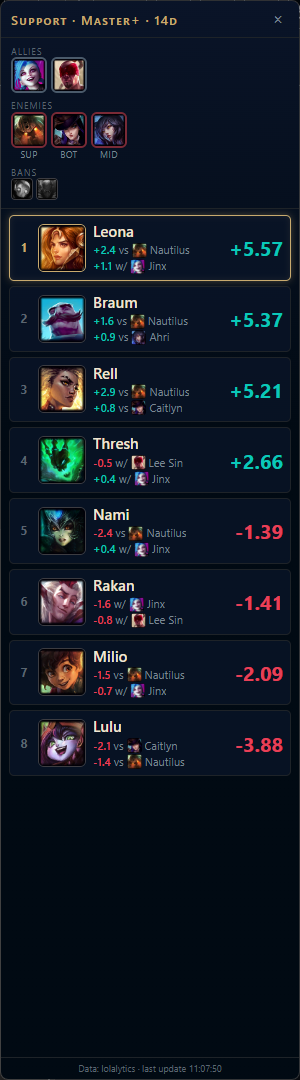
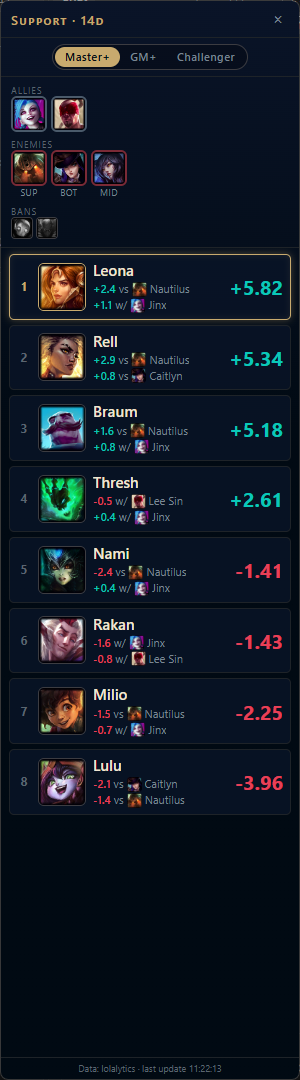
Add Master+/GM+/Challenger tier pill to the panel
Tier is switchable at runtime, remembered in settings.json, and part of
every cache key so each tier caches separately; pools are kept per
(tier, role). Lane guessing stays on Master+. Shows a note when a tier
has few matchups, and estimates champion games from pick rate so the
baseline survives tiers with no listed matchups. Empty bans row hidden.

diff --git a/panel/index.html b/panel/index.html
@@ -94,10 +94,20 @@ body.overlay .name{font-size:.8125rem}
 body.overlay .score{font-size:1.0625rem}
 body.overlay .foot{padding:.1875rem}
 body.overlay .recs{gap:.1875rem;padding:.25rem .375rem}
+.tiers{display:flex;justify-content:center;padding:.375rem .625rem;border-bottom:1px solid var(--line);flex:none}
+.pill{display:inline-flex;border:1px solid var(--line2);border-radius:999px;padding:2px;background:rgba(0,0,0,.25)}
+.pill button{background:none;border:0;border-radius:999px;color:var(--muted);font:inherit;font-size:.6875rem;font-weight:600;
+  letter-spacing:.04em;padding:.1875rem .625rem;cursor:pointer;transition:background .15s,color .15s}
+.pill button:hover{color:var(--gold2)}
+.pill button.on{background:var(--gold);color:#010a13}
+.pill button:disabled{cursor:wait}
+.note{font-size:.625rem;color:var(--muted);text-align:center;padding:.25rem .625rem 0}
+body.overlay .tiers{padding:.1875rem .5rem}
 </style>
 </head>
 <body>
 <div class="hdr"><div class="t" id="title">Pick Recommender</div><button class="x" id="hide" title="Hide">&times;</button></div>
+<div class="tiers hidden" id="tiersBox"><div><div class="pill" id="tiers"></div><div class="note hidden" id="note"></div></div></div>
 <div class="team" id="team">
   <div><div class="rlabel">Allies</div><div class="row" id="allies"></div></div>
   <div><div class="rlabel">Enemies</div><div class="row" id="enemies"></div></div>
@@ -190,13 +200,33 @@ body.overlay .recs{gap:.1875rem;padding:.25rem .375rem}
     });
   }
   function pad(n){return(n<10?"0":"")+n}
+  var pending=null;
+  function renderTiers(s){
+    var box=$("tiers");
+    $("tiersBox").classList.toggle("hidden",!(s.tiers&&s.tiers.length));
+    if(pending&&pending===s.tier_id)pending=null;
+    clear(box);
+    (s.tiers||[]).forEach(function(t){
+      var b=el("button",(pending||s.tier_id)===t.id?"on":null,t.label);
+      b.disabled=!!pending;
+      b.addEventListener("click",function(){
+        if(pending||t.id===s.tier_id)return;
+        pending=t.id;renderTiers(s);
+        try{window.pywebview.api.set_tier(t.id)}catch(e){pending=null;renderTiers(s)}
+      });
+      box.appendChild(b);
+    });
+    $("note").textContent=s.note||"";
+    $("note").classList.toggle("hidden",!s.note);
+  }
 
   window.updateState=function(s){
     s=s||{};
     var active=s.status==="active";
     var parts=[];
-    if(s.role)parts.push(cap(s.role));if(s.tier)parts.push(s.tier);if(s.days!=null&&s.days!=="")parts.push(s.days+"d");
+    if(s.role)parts.push(cap(s.role));if(s.days!=null&&s.days!=="")parts.push(s.days+"d");
     $("title").textContent=parts.length?parts.join(" · "):"Pick Recommender";
+    renderTiers(s);
     $("team").classList.toggle("hidden",!active);
     $("recs").classList.toggle("hidden",!active);
     var em=$("empty");em.classList.toggle("hidden",active);
@@ -205,7 +235,7 @@ body.overlay .recs{gap:.1875rem;padding:.25rem .375rem}
     if(active){
       chipRow($("allies"),s.allies,"ally");
       chipRow($("enemies"),s.enemies,"enemy");
-      clear($("bans"));
+      clear($("bans"));$("bansBox").classList.toggle("hidden",!(s.bans&&s.bans.length));
       (s.bans||[]).forEach(function(b){var i=icon(b.name,b.icon);i.title=b.name;$("bans").appendChild(i)});
       var keep=$("recs").scrollTop;renderRecs(s.recs);$("recs").scrollTop=keep;
     }
@@ -231,7 +261,7 @@ body.overlay .recs{gap:.1875rem;padding:.25rem .375rem}
     var C=function(n,id,k,l,d,g,w,t){return{kind:k,name:n,icon:I(id),lane:l,delta:d,games:g,weighted:w,tentative:!!t}};
     var rec=function(n,id,sc,base,cs){return{name:n,icon:I(id),score:sc,base:base,contributions:cs}};
     window.updateState({
-      status:"active",role:"support",tier:"Master+",days:14,
+      status:"active",role:"support",tier:"Master+",days:14,tier_id:q.get("tier")||"master_plus",note:q.get("tier")==="challenger"?"Few matchups at this tier: scores lean on overall win rate.":"",tiers:[{id:"master_plus",label:"Master+"},{id:"grandmaster_plus",label:"GM+"},{id:"challenger",label:"Challenger"}],
       allies:[{name:"Jinx",icon:I("Jinx"),lane:"bottom",tentative:false,is_me:false},
               {name:"Lee Sin",icon:I("LeeSin"),lane:"jungle",tentative:true,is_me:false},
               {name:"Me",icon:"",lane:"support",tentative:false,is_me:true}],

diff --git a/app.py b/app.py
@@ -30,7 +30,9 @@ from paths import DATA_DIR, RESOURCES
 from scoring import LANES
 
 TITLE = "League Pick Helper"
-TIER_NAMES = {"master_plus": "Master+", "emerald_plus": "Emerald+", "platinum_plus": "Platinum+"}
+TIERS = {"master_plus": "Master+", "grandmaster_plus": "GM+", "challenger": "Challenger"}
+SETTINGS = DATA_DIR / "settings.json"
+LOW_DATA = 0.25  # below this share of possible matchups found, warn that the tier is thin
 MOD_CONTROL, MOD_SHIFT, MOD_NOREPEAT, WM_HOTKEY = 0x2, 0x4, 0x4000, 0x0312
 CTRL_C_EVENT, CTRL_BREAK_EVENT, CTRL_CLOSE_EVENT = 0, 1, 2
 HANDLER_ROUTINE = ctypes.WINFUNCTYPE(w.BOOL, w.DWORD)
@@ -47,6 +49,9 @@ class Api:
     def hide(self) -> None:
         self._app.user_hidden = True
 
+    def set_tier(self, tier: str) -> None:
+        self._app.set_tier(tier)
+
 
 class App:
     def __init__(self, args):
@@ -56,6 +61,9 @@ class App:
         self.user_hidden = False
         self.window: webview.Window | None = None
         self.rec: Recommender | None = None
+        self.lock = threading.RLock()  # evaluation runs from the LCU thread and from pill clicks
+        self.last_draft: tuple[DraftState, set[int] | None] | None = None
+        self.last_status = ("Waiting for champ select...", "waiting")
 
     # -- page updates -----------------------------------------------------
     def js(self, code: str) -> None:
@@ -65,20 +73,59 @@ class App:
     def push(self, state: dict) -> None:
         self.js(f"window.updateState&&updateState({json.dumps(state)})")
 
-    def status(self, message: str, status: str = "waiting") -> None:
+    def status(self, message: str, status: str = "waiting", remember: bool = True) -> None:
+        if remember:
+            self.last_status = (message, status)
         self.push(self._header() | {"status": status, "message": message})
+
+    def progress(self, message: str) -> None:
+        self.status(message, remember=False)
 
     def _header(self, role: str | None = None) -> dict:
         cfg = self.rec.cfg if self.rec else load_config(self.args.config)
-        return {"role": role or "", "tier": TIER_NAMES.get(cfg.tier, cfg.tier), "days": cfg.days}
+        tier = self.rec.tier if self.rec else cfg.tier
+        return {
+            "role": role or "", "tier": TIERS.get(tier, tier), "tier_id": tier, "days": cfg.days,
+            "tiers": [{"id": k, "label": v} for k, v in TIERS.items()],
+        }
+
+    def set_tier(self, tier: str) -> None:
+        if tier not in TIERS or not self.rec:
+            return
+        with self.lock:
+            self.rec.tier = tier
+            try:
+                SETTINGS.write_text(json.dumps({"tier": tier}), encoding="utf-8")
+            except OSError:
+                log.warning("could not save settings")
+            self.render()
+
+    def render(self) -> None:
+        """Re-score the last draft (or re-show the last status) with current settings."""
+        with self.lock:
+            if not (self.active and self.last_draft):
+                self.status(*self.last_status)
+                return
+            draft, pickable = self.last_draft
+            try:
+                self.show_eval(self.rec.evaluate(draft, pickable))
+            except Exception:
+                log.exception("evaluate failed")
+                self.status("Error scoring draft (see app.log)", "error")
 
     def show_eval(self, ev: Evaluation) -> None:
         ch = self.rec.champs
         champ = lambda cid: {"name": ch.name(cid), "icon": ch.icon_url(cid)}
         d = ev.draft
+        found = sum(1 for r in ev.recs for c in r.contributions if c.label == "vs")
+        possible = len(ev.recs) * len(d.enemies)
+        note = ""
+        if possible and found / possible < LOW_DATA:
+            note = "Few matchups at this tier: scores lean on overall win rate."
         self.push(self._header(ev.role) | {
             "status": "active",
             "message": "",
+            "note": note,
             "allies": [
                 champ(s.champion_id) | {"lane": s.position or ev.lanes.get(s.champion_id, ""),
                                         "tentative": s.tentative, "is_me": s.is_me}
@@ -103,22 +150,21 @@ class App:
 
     # -- draft sources ----------------------------------------------------
     def on_session(self, session: dict | None, pickable: set[int] | None = None) -> None:
-        if not session:
-            self.active = False
-            self.status("Waiting for champ select...")
-            return
-        if not self.active:
-            self.user_hidden = False  # new draft: bring the panel back
-        self.active = True
-        draft = parse_session(session)
-        if self.rec.role_for(draft) is None:
-            self.status("No assigned role in this queue - recommendations need a position (draft or ranked).")
-            return
-        try:
-            self.show_eval(self.rec.evaluate(draft, pickable))
-        except Exception:
-            log.exception("evaluate failed")
-            self.status("Error scoring draft (see app.log)", "error")
+        with self.lock:
+            if not session:
+                self.active, self.last_draft = False, None
+                self.status("Waiting for champ select...")
+                return
+            if not self.active:
+                self.user_hidden = False  # new draft: bring the panel back
+            self.active = True
+            draft = parse_session(session)
+            if self.rec.role_for(draft) is None:
+                self.last_draft = None
+                self.status("No assigned role in this queue - recommendations need a position (draft or ranked).")
+                return
+            self.last_draft = (draft, pickable)
+            self.render()
 
     def run_live(self) -> None:
         pickable: set[int] = set()
@@ -161,7 +207,8 @@ class App:
             bans=set(ids(self.args.bans)), picked={s.champion_id for s in allies} | set(enemies),
         )
         self.active = True
-        self.show_eval(self.rec.evaluate(draft))
+        self.last_draft = (draft, None)
+        self.render()
 
     # -- window placement -------------------------------------------------
     def track(self) -> None:
@@ -206,7 +253,8 @@ class App:
         try:
             self.status("Loading champion data...")
             self.rec = Recommender(load_config(self.args.config))
-            self.rec.progress = self.status
+            self.rec.tier = self._saved_tier() or self.rec.tier
+            self.rec.progress = self.progress
             if self.args.simulate:
                 self.run_simulate()
             elif self.args.replay:
@@ -216,6 +264,14 @@ class App:
         except Exception:
             log.exception("fatal")
             self.status("Something went wrong (see app.log)", "error")
+
+    @staticmethod
+    def _saved_tier() -> str | None:
+        try:
+            tier = json.loads(SETTINGS.read_text(encoding="utf-8")).get("tier")
+        except (OSError, ValueError):
+            return None
+        return tier if tier in TIERS else None
 
     def run(self) -> None:
         tracker.make_dpi_aware()

diff --git a/lolalytics.py b/lolalytics.py
@@ -21,6 +21,15 @@ BASE = "https://a1.lolalytics.com/mega/"
 CACHE_DIR = paths.CACHE_DIR / "lolalytics"
 HEADERS = {"User-Agent": "Mozilla/5.0 (league-analysis pick helper)"}
 TTL = 24 * 3600
+LANE_RATE_TIER = "master_plus"  # enough games to tell which lane a champion plays
+
+
+def _games(stats: dict) -> int:
+    """Estimated games in this lane: games analysed for the tier x pick rate (inferred meaning of fields)."""
+    try:
+        return round(float(stats.get("analysed") or 0) * float(stats.get("pr") or 0) / 100)
+    except (TypeError, ValueError):
+        return 0
 
 
 class Lolalytics:
@@ -50,12 +59,21 @@ class Lolalytics:
         path.write_text(json.dumps(data), encoding="utf-8")
         return data
 
-    def counters(self, slug: str, lane: str, vslane: str) -> dict:
-        return self._get(ep="counter", c=slug, lane=lane, vslane=vslane)
+    @property
+    def tier(self) -> str:
+        return self.common["tier"]
+
+    @tier.setter
+    def tier(self, value: str) -> None:
+        self.common["tier"] = value  # part of every cache key, so tiers cache separately
+
+    def counters(self, slug: str, lane: str, vslane: str, **extra) -> dict:
+        return self._get(ep="counter", c=slug, lane=lane, vslane=vslane, **extra)
 
     def lane_rates(self, slug: str) -> dict[str, float]:
         # stats.lanes is lane-independent; reuse any cached lane query
-        return (self.counters(slug, "middle", "middle").get("stats") or {}).get("lanes") or {}
+        data = self.counters(slug, "middle", "middle", tier=LANE_RATE_TIER)
+        return (data.get("stats") or {}).get("lanes") or {}
 
     def champ_stats(self, slug: str, lane: str) -> ChampStats | None:
         matchups: dict[str, dict[int, Pair]] = {}
@@ -81,7 +99,7 @@ class Lolalytics:
             champion_id=int(stats["cid"]),
             lane=lane,
             wr=float(stats["wr"]),
-            games=sum(p.games for p in own.values()) or 1,  # lower bound; lists are truncated
+            games=_games(stats) or sum(p.games for p in own.values()) or 1,
             avg_wr=float(stats.get("avgWr") or 50),
             matchups=matchups,
             synergies=synergies,

diff --git a/engine.py b/engine.py
@@ -26,7 +26,7 @@ class Recommender:
         self.cfg = cfg
         self.champs = Champions.load()
         self.lola = Lolalytics(cfg.tier, cfg.days)
-        self.pools: dict[str, dict[int, ChampStats]] = {}
+        self.pools: dict[tuple[str, str], dict[int, ChampStats]] = {}  # (tier, role) -> pool
         self.progress: Callable[[str], None] = lambda _: None
 
     @staticmethod
@@ -34,20 +34,29 @@ class Recommender:
         """Assigned position, or None when the queue doesn't assign one (blind pick, ARAM)."""
         return draft.my_position if draft.my_position in LANES else None
 
+    @property
+    def tier(self) -> str:
+        return self.lola.tier
+
+    @tier.setter
+    def tier(self, value: str) -> None:
+        self.lola.tier = value
+
     def pool(self, role: str) -> dict[int, ChampStats]:
-        """Stats for the role's champion pool, loaded on first use (then served from cache)."""
-        if role not in self.pools:
+        """Stats for the role's champion pool at the current tier, loaded on first use."""
+        key = (self.tier, role)
+        if key not in self.pools:
             pool = {}
             for slug in self.cfg.pools.get(role, []):
-                self.progress(f"Loading {role} stats: {slug} ({self.cfg.tier}, {self.cfg.days} days)...")
+                self.progress(f"Loading {role} stats: {slug} ({self.tier}, {self.cfg.days} days)...")
                 cid = self.champs.id_from_slug(slug)  # accepts names like "Lee Sin"
                 s = self.lola.champ_stats(self.champs.slug(cid) if cid else slug, role)
                 if s is None:
-                    log.warning("no lolalytics data for %s in %s", slug, role)
+                    log.warning("no lolalytics data for %s in %s at %s", slug, role, self.tier)
                     continue
                 pool[s.champion_id] = s
-            self.pools[role] = pool
-        return self.pools[role]
+            self.pools[key] = pool
+        return self.pools[key]
 
     def _lane_rates(self, ids: list[int]) -> dict[int, dict[str, float]]:
         return {c: self.lola.lane_rates(self.champs.slug(c)) for c in ids}

diff --git a/README.md b/README.md
@@ -1,8 +1,8 @@
 # LoL Champion Recommender
 
 Live champ select pick recommender for League of Legends. Reads the draft from the local League
-Client API, detects the role you're assigned, pulls master+ / last-14-days matchup and synergy stats
-from lolalytics, and ranks picks from your champion pool for that role. Shows a panel docked beside
+Client API, detects the role you're assigned, pulls last-14-days matchup and synergy stats from
+lolalytics, and ranks picks from your champion pool for that role. Shows a panel docked beside
 the League client.
 
 <img src="docs/panel.png" alt="Panel: allies, enemies with inferred lanes, bans, and ranked support picks with the matchups behind each score" width="300">
@@ -19,7 +19,16 @@ uv run app.py --replay drafts/x.jsonl    # replay a recorded draft
 uv run app.py --simulate --role support --allies jinx,leesin --enemies nautilus,caitlyn --bans pyke
 uv run pytest
 ```
-Ctrl+Shift+L toggles the panel.
+Ctrl+Shift+L toggles the panel. Ctrl+C in the terminal quits.
+
+## Rank tier
+The pill at the top of the panel switches the stats between **Master+**, **GM+** and **Challenger**.
+The choice is remembered between runs. Each tier is cached separately for the day.
+
+Higher tiers have far fewer games. Over 14 days, lolalytics lists about 54 support matchups for Thresh
+at Master+, 14 at GM+ and none at Challenger. When few matchups are available, the panel says so and the
+scores mostly reflect each champion's overall win rate. Lane guessing for enemies always uses
+Master+ data.
 
 ## Roles
 The role always comes from your assigned position in champ select (ranked and normal draft). Queues
